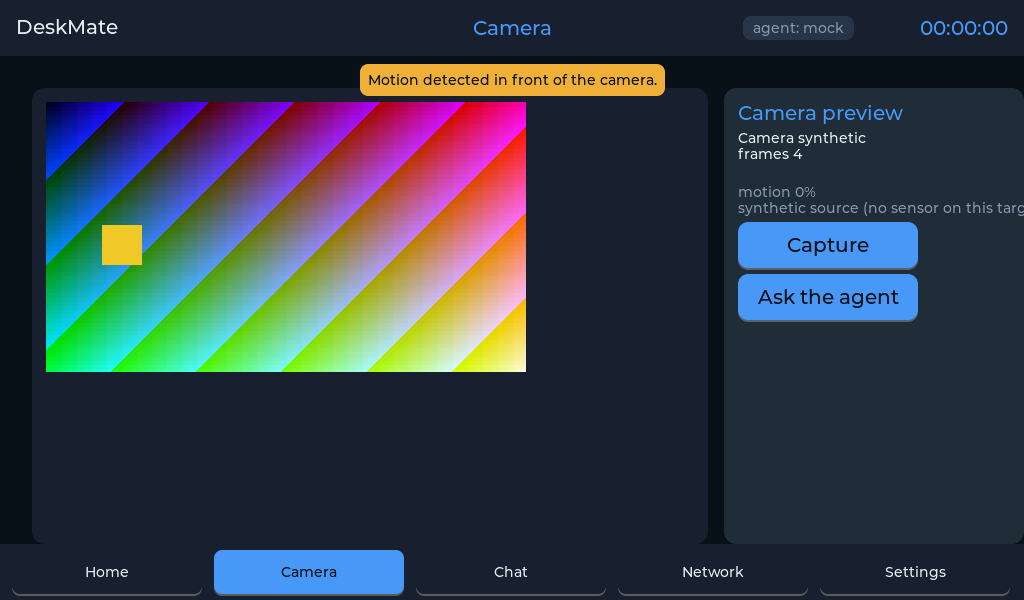
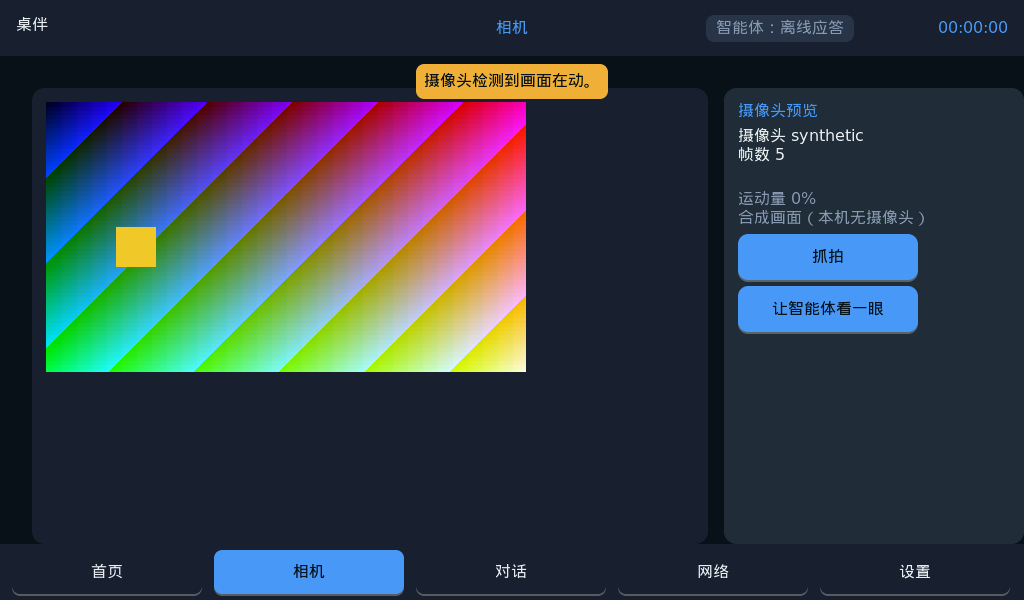
docs(evidence): 应用层证据换中文版（模拟器 3 页 + 巡览 9 帧 + GIF、真机帧缓冲截图）

diff --git a/docs/40_验证与证据/截图与对照日志/应用层_模拟器快照/README.md b/docs/40_验证与证据/截图与对照日志/应用层_模拟器快照/README.md
@@ -1,6 +1,6 @@
 # 应用层（DeskMate）模拟器快照
 
-由 `tools/test/sim_deskmate.sh` 产出：自检一次运行（`RESULT: PASS`，`DM-SELFTEST RESULT: PASS (16/16)`）
+由 `tools/test/sim_deskmate.sh` 产出：自检一次运行（`RESULT: PASS`，`DM-SELFTEST RESULT: PASS (18/18)`）
 给出三张页面截图，`--tour` 再一次给出五页巡览（9 帧 + GIF）。
 
 | 文件 | 内容 |
@@ -9,6 +9,8 @@
 | `dm_*.bin.txt` | 快照几何（width/height/bpp/stride/backend） |
 | `tour/tour_01..09_*.png` | 巡览：首页 → 相机 ×5 → 网络 → 对话 → 设置 |
 | `tour/deskmate_tour.gif` | 上面 9 帧拼成的动画（页面停留 0.9–1.1s，相机连拍 0.25s） |
+
+> 2026-11-02 起界面为**中文**（自绘 CJK 子集字体 dm_font_16/24）；本目录的 PNG/GIF 都是中文版。
 | `console.log` / `console_tour.log` | guest 控制台（含逐条 `[dm-check] … PASS`） |
 | `fb2png.log` | 色数 / 主色占比 / 梯度统计（与真机同一判据：UI 梯度 <8） |
 | `result.txt` | 该次运行判定摘要 |
